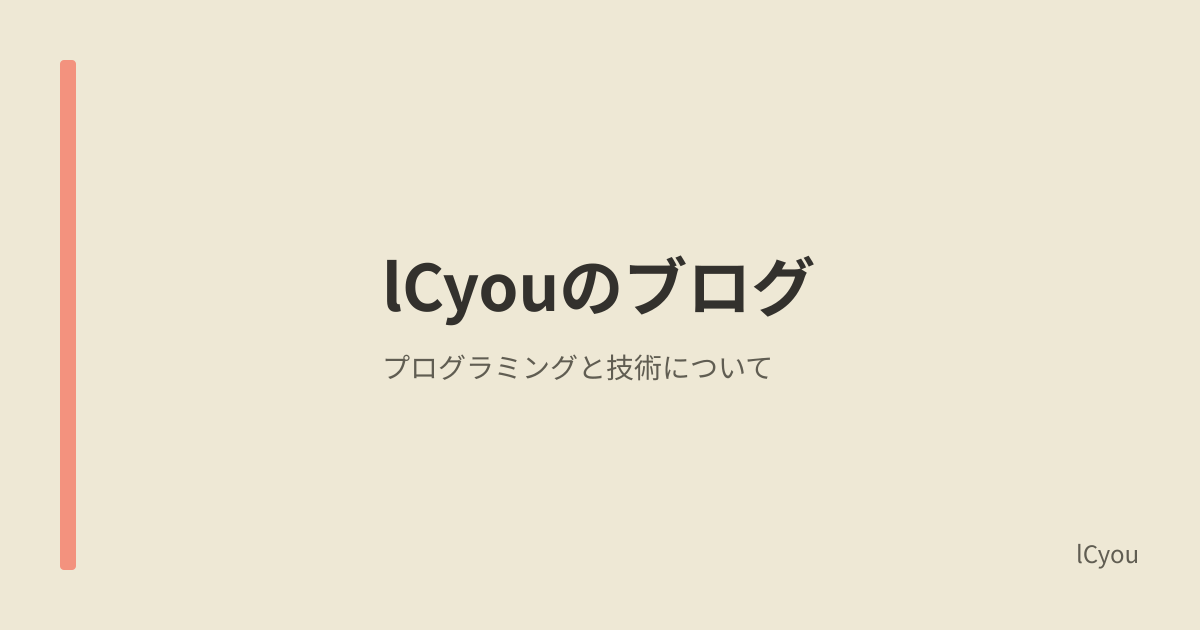
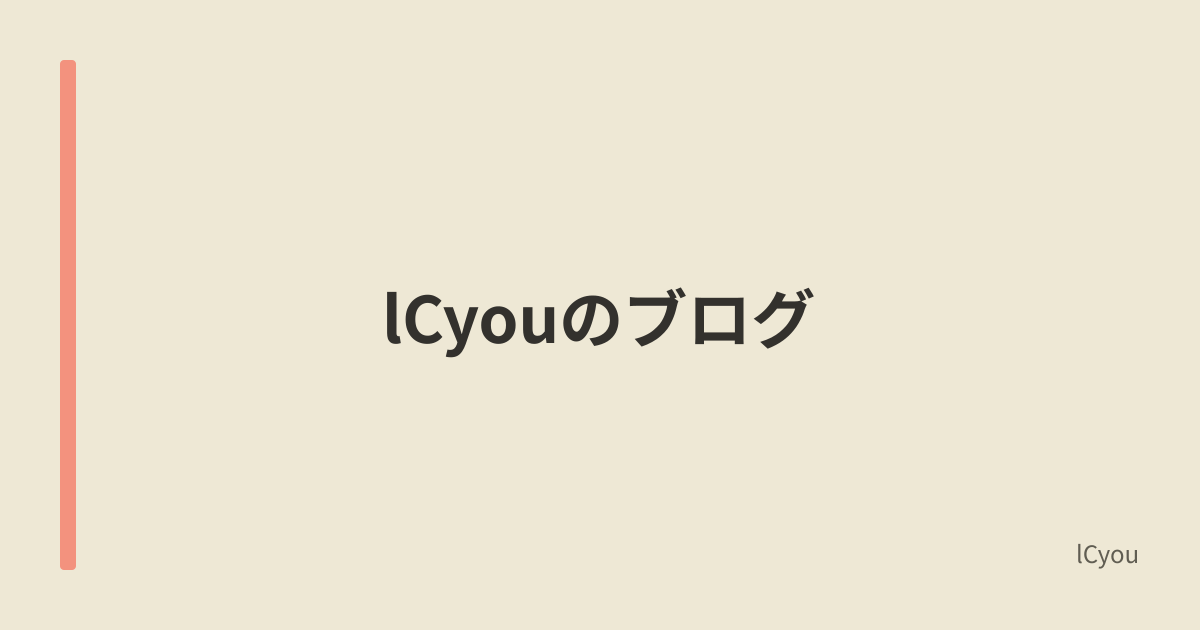
update: delete description from ogp image

Changed region(s): [[0.3083, 0.3921, 0.6783, 0.6032]]

diff --git a/src/scripts/generate-og-images.ts b/src/scripts/generate-og-images.ts
@@ -118,19 +118,6 @@ async function generateOGImage(
                           ],
                         },
                       },
-                      // Description
-                      description && {
-                        type: 'p',
-                        props: {
-                          style: {
-                            fontSize: '28px',
-                            margin: '0',
-                            lineHeight: '1.4',
-                            color: '#605d52', // Medium gray
-                          },
-                          children: description,
-                        },
-                      },
                       // Tags
                       tags.length > 0 && {
                         type: 'div',
